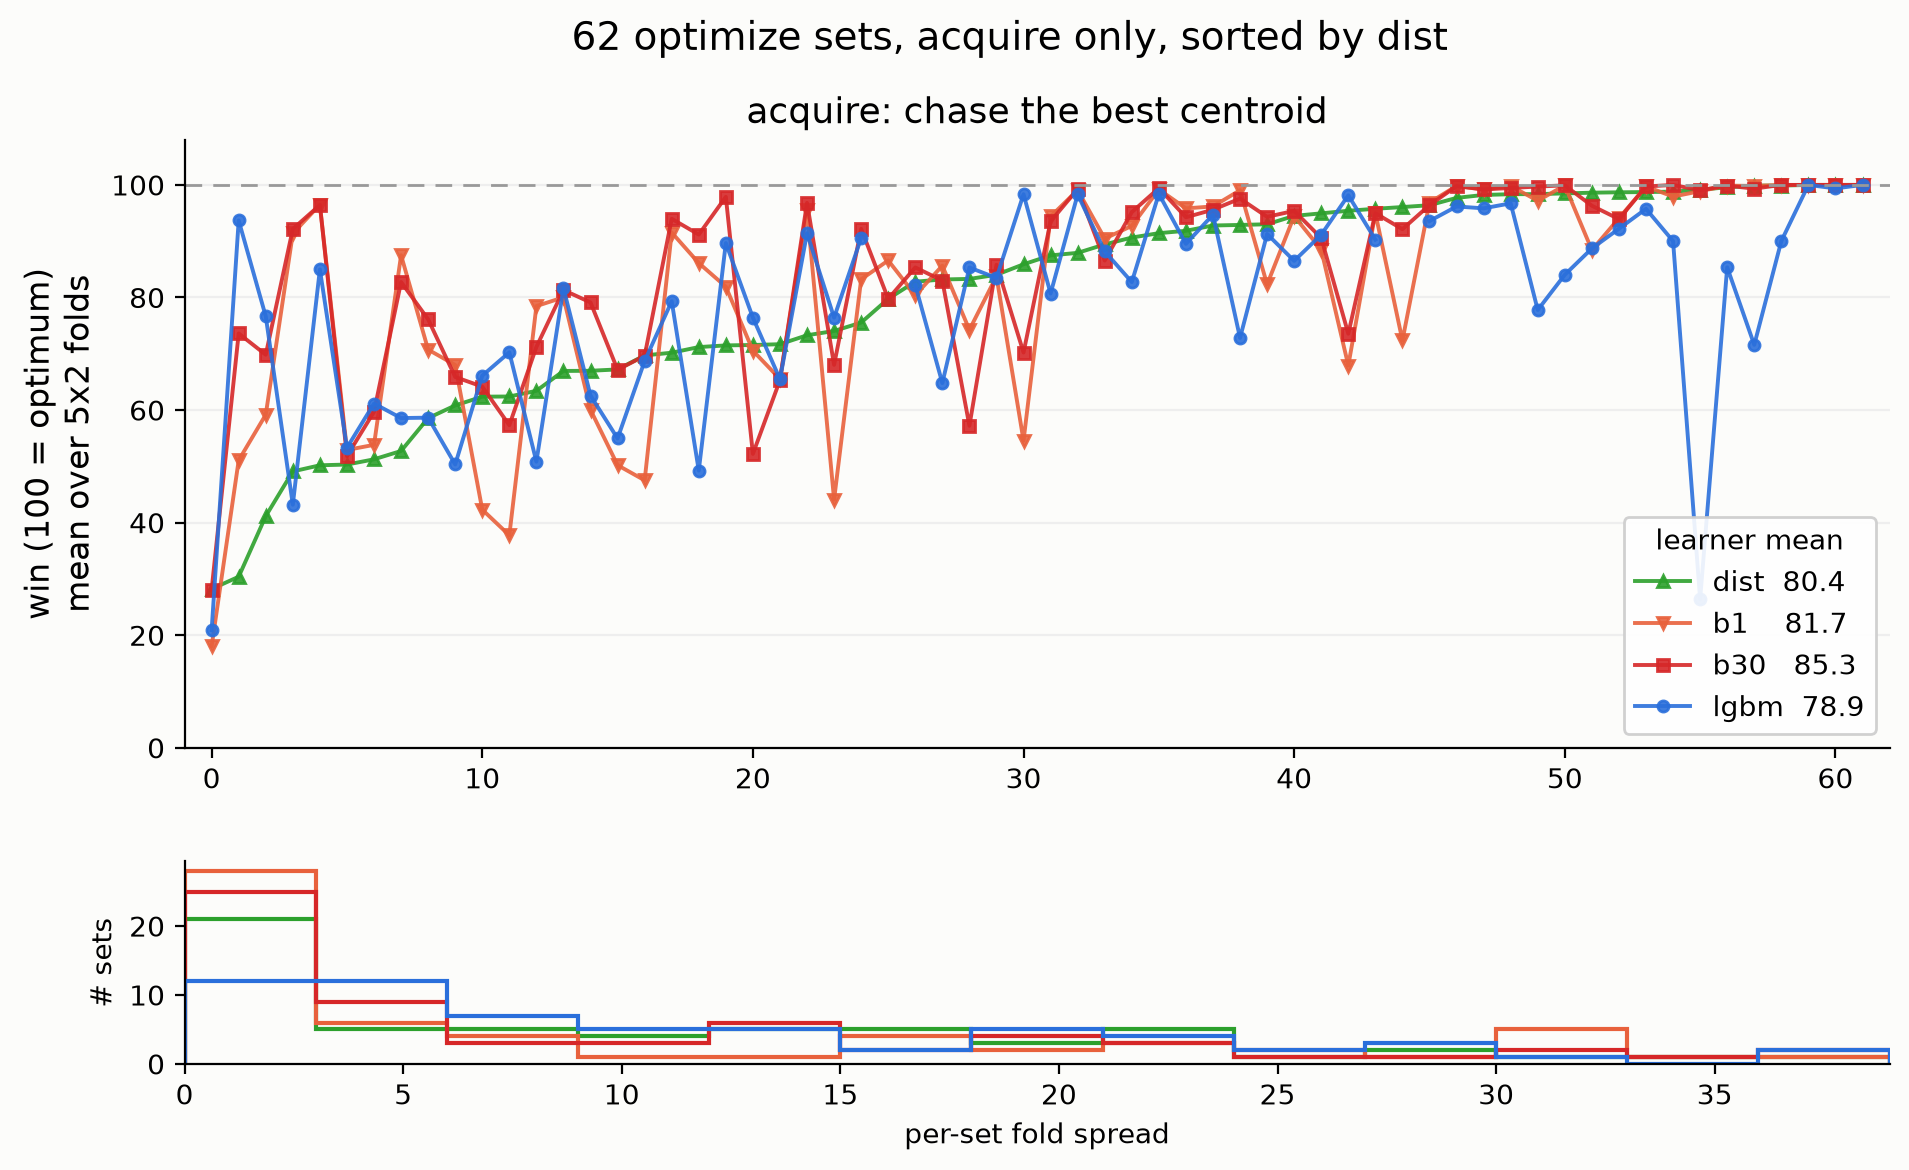
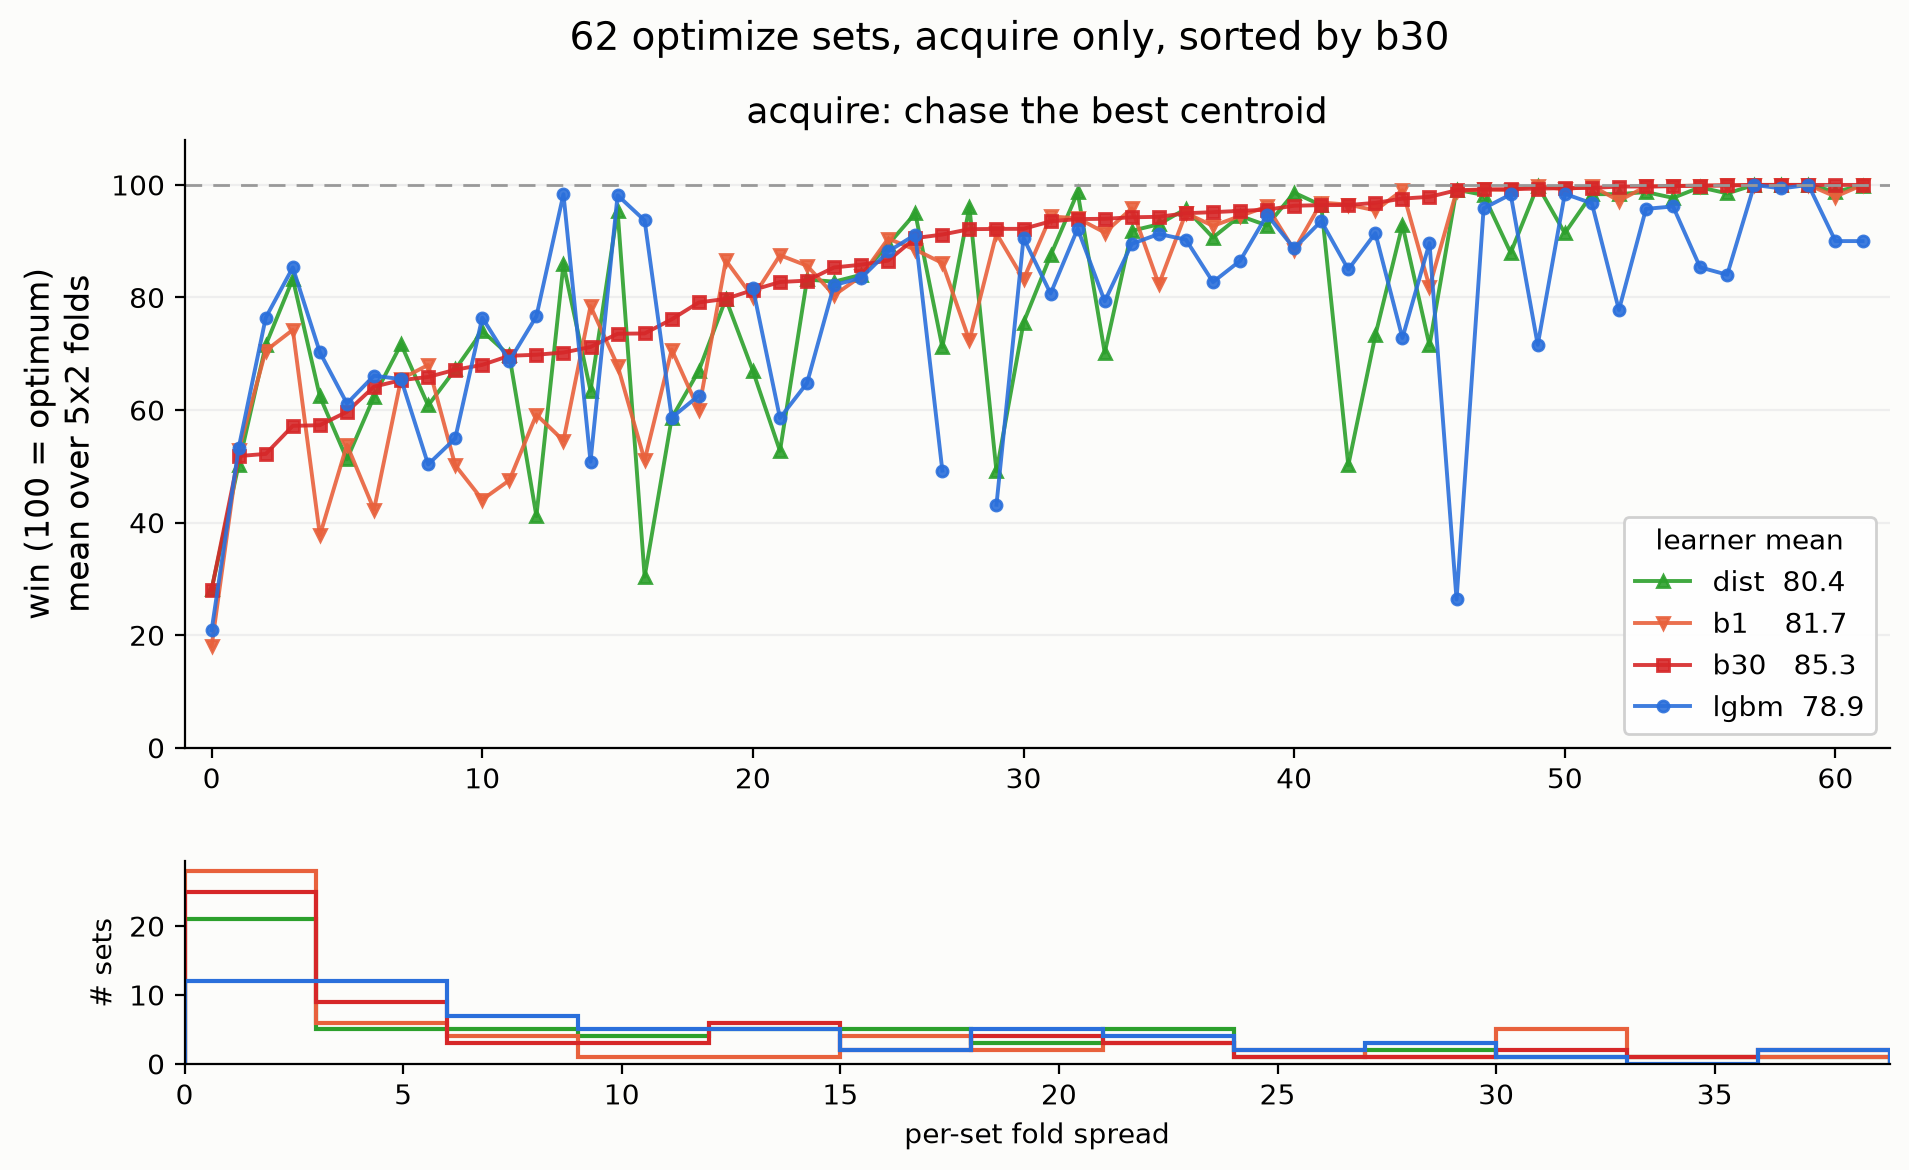
active figure: sort by b30

diff --git a/active_plot.py b/active_plot.py
@@ -31,7 +31,7 @@ sets = list(dict.fromkeys(s for s, _ in F))
 mu = {k: st.fmean(v) for k, v in F.items()}
 grand = {a: st.fmean([mu[(s, a)] for s in sets if (s, a) in mu])
          for a in {a for _, a in F}}
-pivot = "a.dist"                                   # sort key
+pivot = "a.b30"                                    # sort key
 order = sorted(sets, key=lambda s: mu.get((s, pivot), 0))
 xs = np.arange(len(order))
 
@@ -57,7 +57,7 @@ bx.set_ylabel("# sets", fontsize=10); bx.set_xlim(0, 39)
 for p in (ax, bx):
   for s_ in ("top", "right"): p.spines[s_].set_visible(False)
 
-fig.suptitle("62 optimize sets, acquire only, sorted by dist", fontsize=14)
+fig.suptitle("62 optimize sets, acquire only, sorted by b30", fontsize=14)
 fig.set_facecolor("#fcfcfa")
 for a in fig.axes: a.set_facecolor("#fcfcfa")
 plt.savefig(sys.argv[2], dpi=200, bbox_inches="tight")
